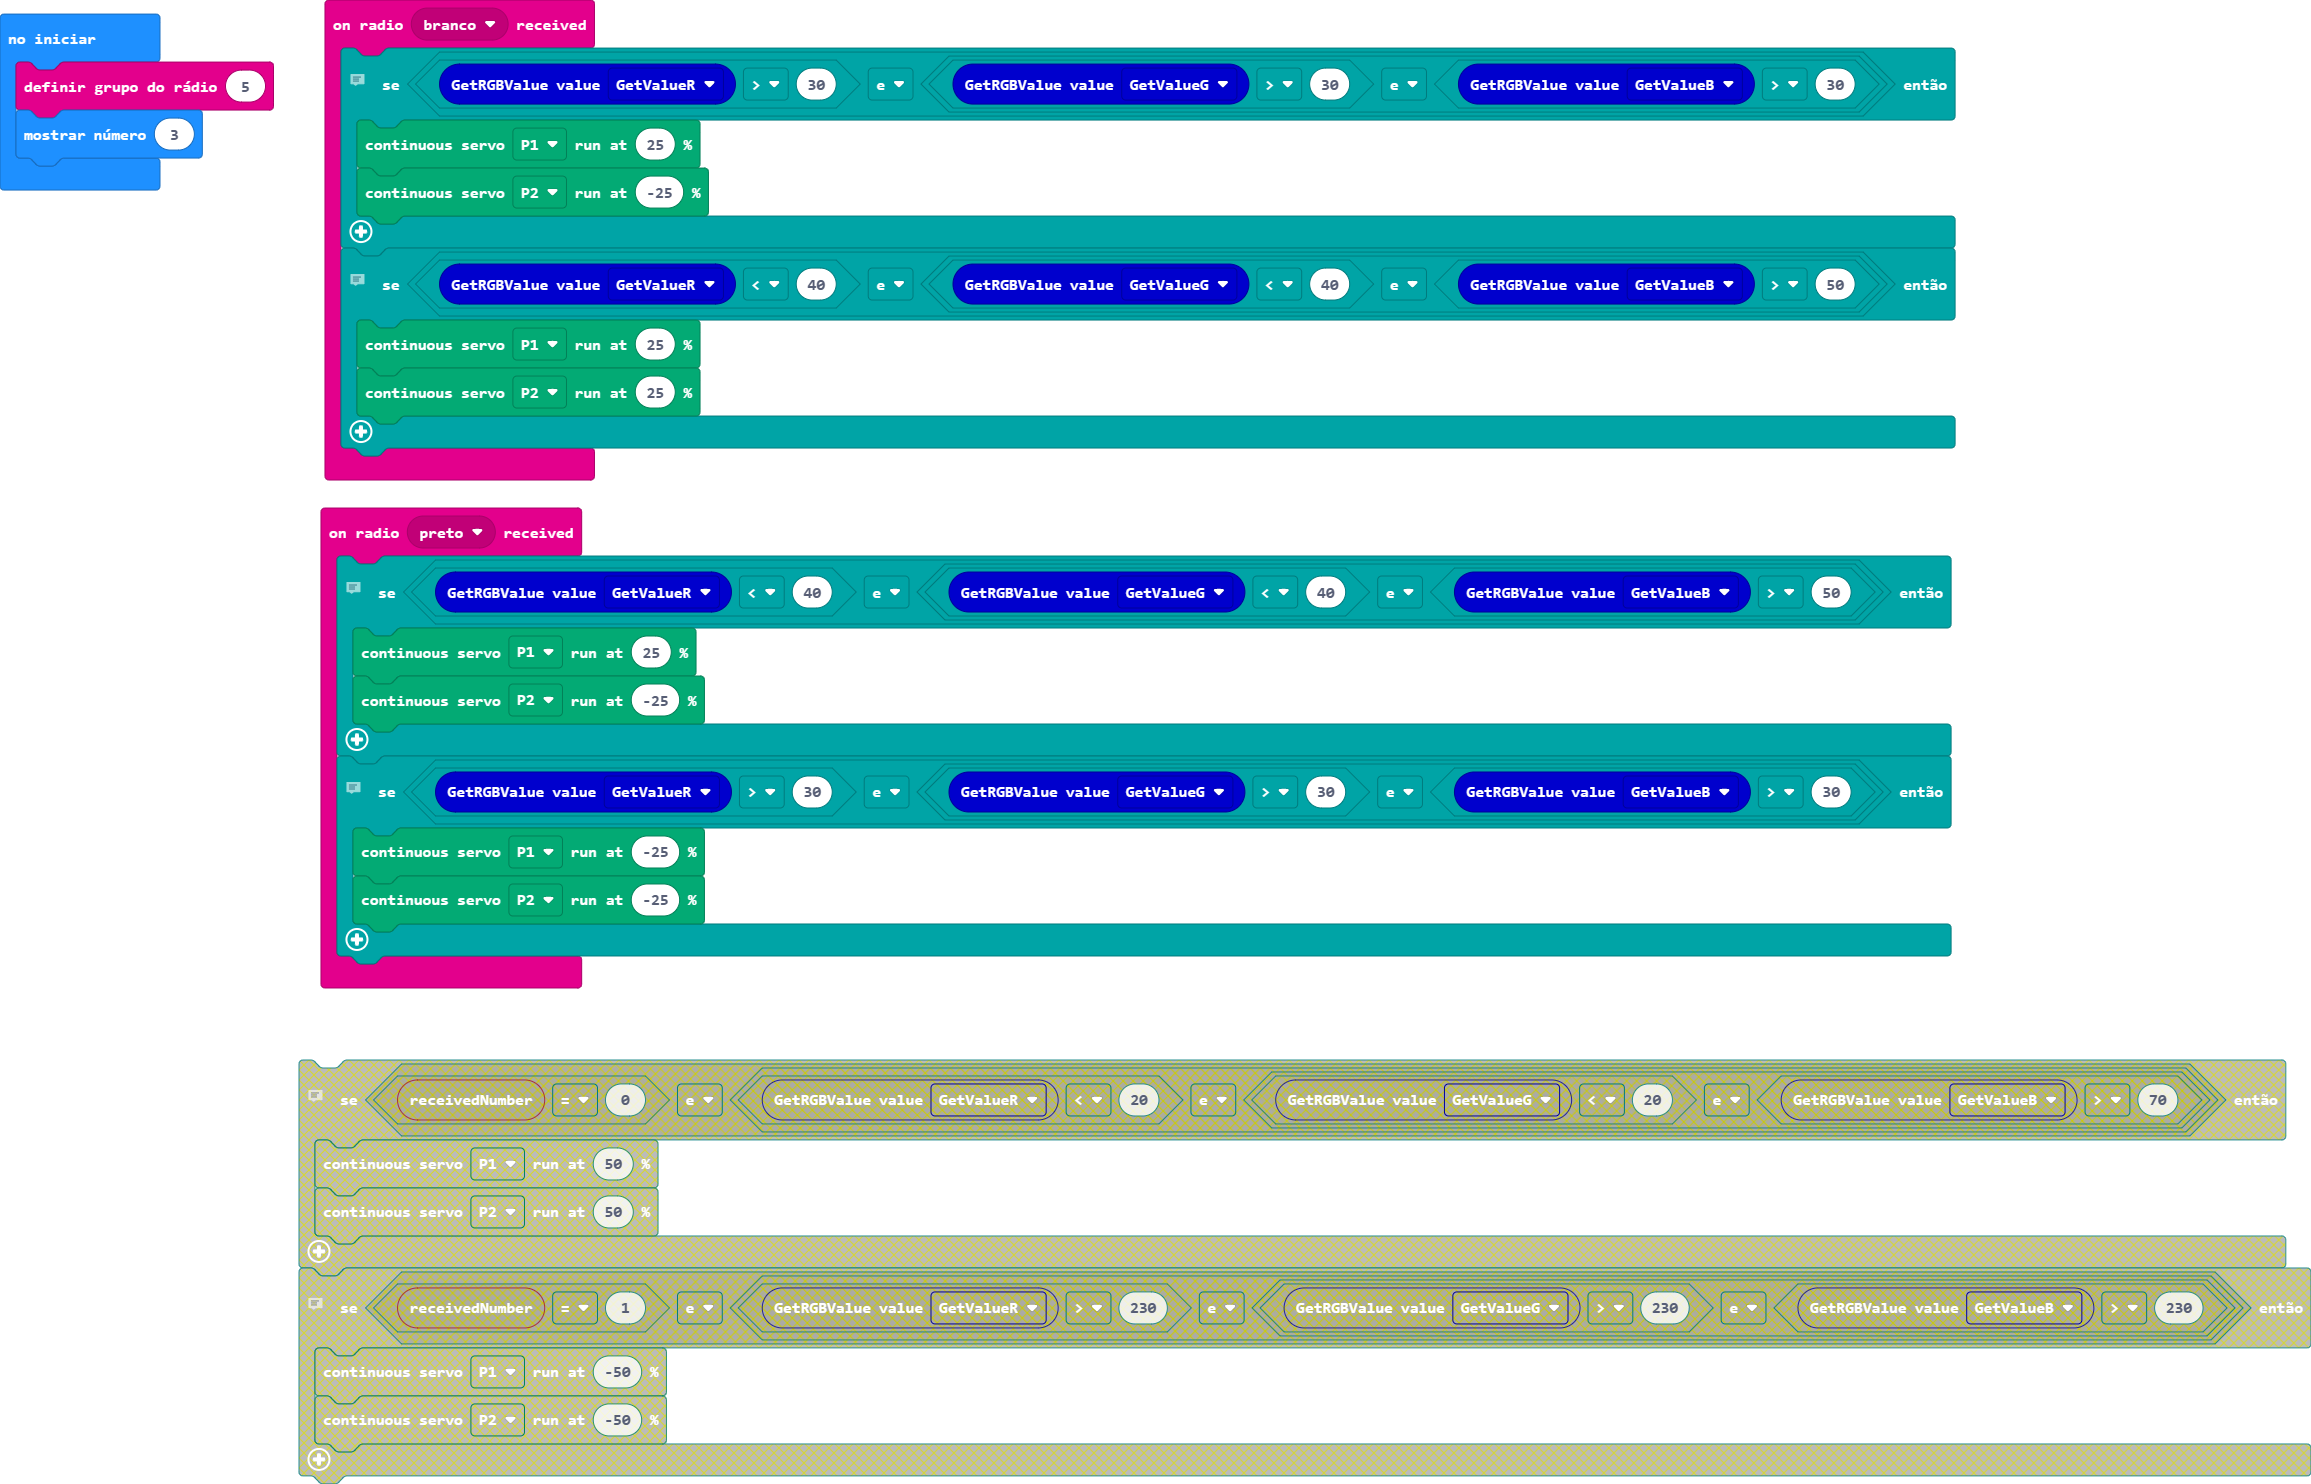
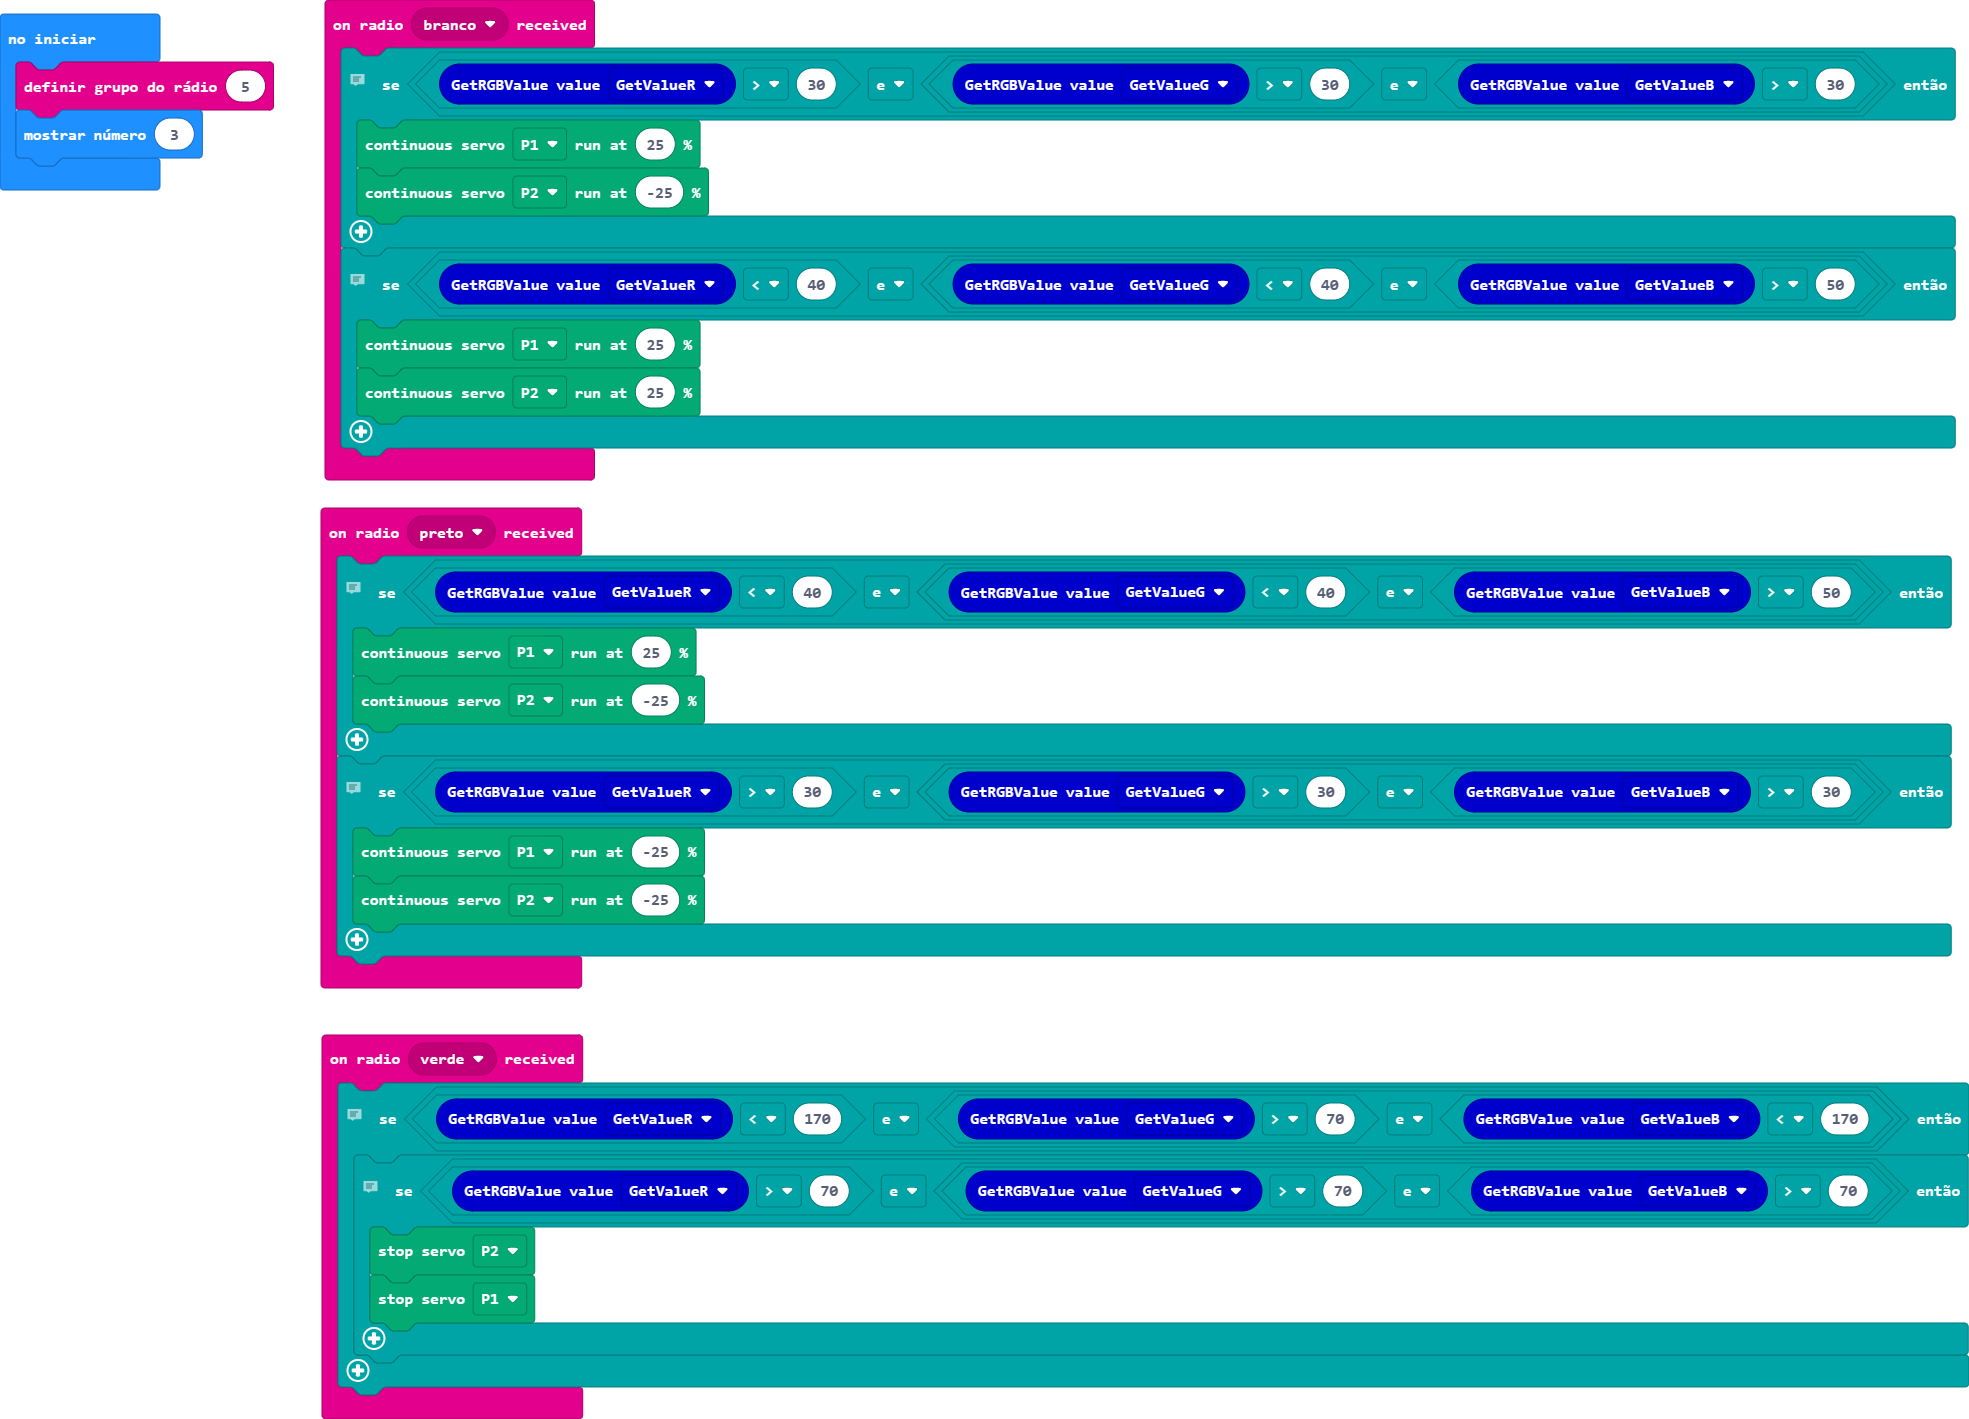
Atualizar 'main.blocks, main.ts'

diff --git a/main.ts b/main.ts
@@ -1,8 +1,19 @@
 enum RadioMessage {
     message1 = 49434,
     branco = 12276,
-    preto = 24635
+    preto = 24635,
+    verde = 14709
 }
+radio.onReceivedMessage(RadioMessage.verde, function () {
+    // Preto e verde
+    if (Module_World_Color.GetRGBValue(Module_World_Color.enGetRGB.GetValueR) < 170 && (Module_World_Color.GetRGBValue(Module_World_Color.enGetRGB.GetValueG) > 70 && Module_World_Color.GetRGBValue(Module_World_Color.enGetRGB.GetValueB) < 170)) {
+        // Preto e preto
+        if (Module_World_Color.GetRGBValue(Module_World_Color.enGetRGB.GetValueR) > 70 && (Module_World_Color.GetRGBValue(Module_World_Color.enGetRGB.GetValueG) > 70 && Module_World_Color.GetRGBValue(Module_World_Color.enGetRGB.GetValueB) > 70)) {
+            servos.P2.stop()
+            servos.P1.stop()
+        }
+    }
+})
 radio.onReceivedMessage(RadioMessage.branco, function () {
     // Branco e branco
     if (Module_World_Color.GetRGBValue(Module_World_Color.enGetRGB.GetValueR) > 30 && (Module_World_Color.GetRGBValue(Module_World_Color.enGetRGB.GetValueG) > 30 && Module_World_Color.GetRGBValue(Module_World_Color.enGetRGB.GetValueB) > 30)) {
